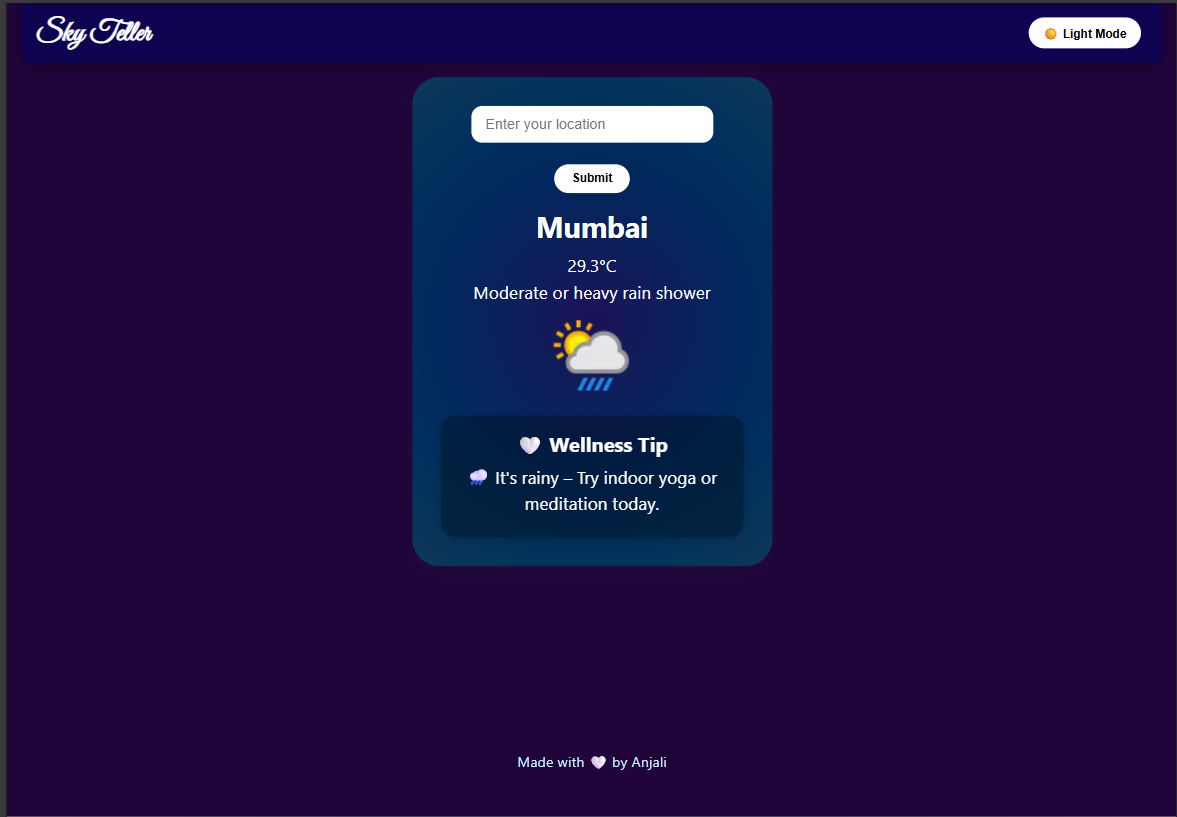
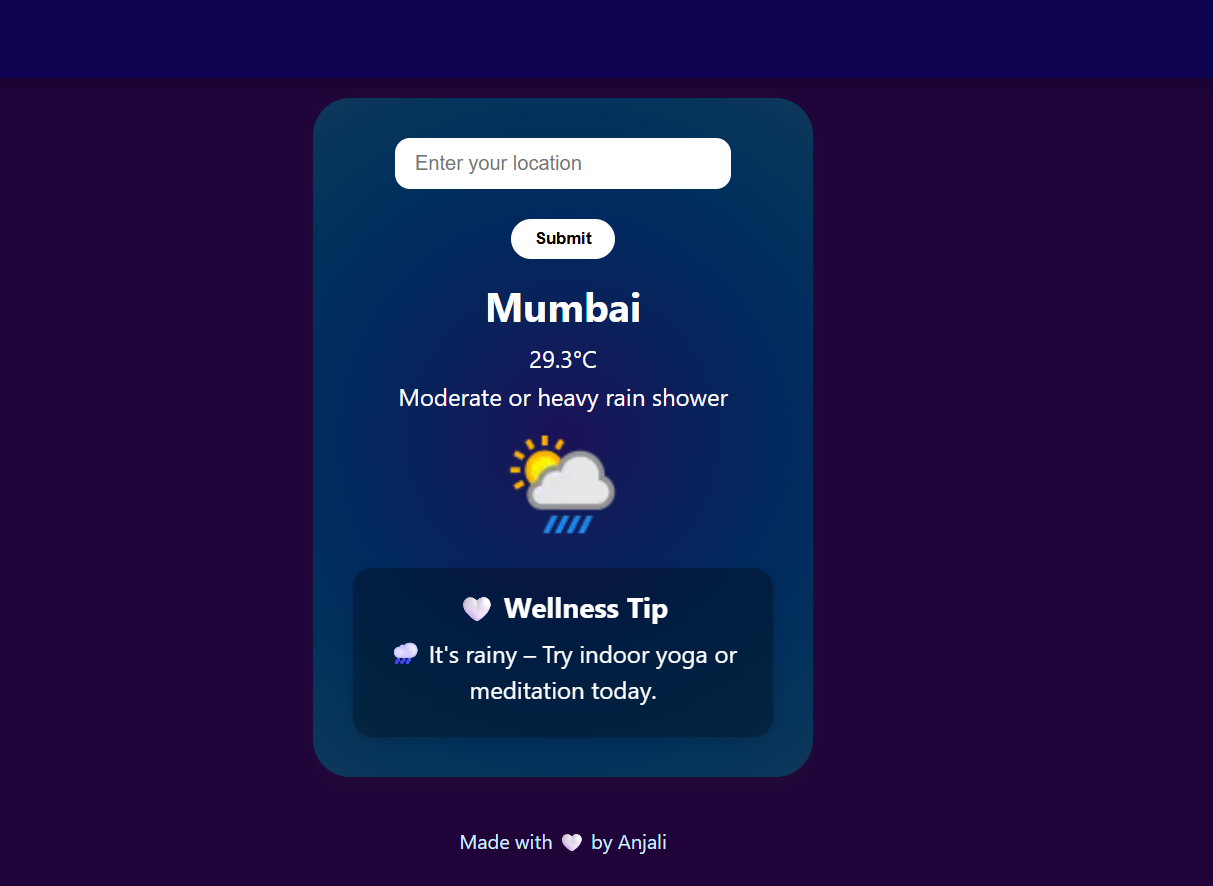
project [ update]

Changed region(s): [[0.0, 0.0, 1.0, 1.0], [0.367, 0.918, 0.5811, 0.9792]]

diff --git a/tailwind.config.js b/tailwind.config.js
@@ -1,9 +1,31 @@
+const { template } = require("lodash");
+
 // tailwind.config.js
 module.exports = {
   content: ['./src/**/*.{js,jsx,ts,tsx}', './public/index.html'], // ✅ replaces "purge"
   darkMode: 'class', // or 'media' or remove if unused
   theme: {
-    extend: {},
+    extend: {
+      colors: {
+        primary: '#000', // Twitter blue
+        'primary-dark': '#000', // Darker shade for dark mode
+        'primary-light': '#000', // Lighter shade for light mode
+      },
+      backgroundColor: {
+        'primary': '#D3D0E3',
+        'primary-dark': '#0d8ecf', // Darker shade for dark mode
+        'primary-light': '#a0d8f0', // Lighter shade for light mode
+      },
+      boxShadow: {
+        'custom-light': '0 4px 6px -1px rgba(0, 0, 0, 0.1), 0 2px 4px -1px rgba(0, 0, 0, 0.06)',
+        'custom-dark': '0 4px 6px -1px rgba(255, 255, 255, 0.1), 0 2px 4px -1px rgba(255, 255, 255, 0.06)',
+      },
+      textColor: {
+        'primary': '#000', // Twitter blue
+        'primary-dark': '#0d8ecf', // Darker shade for dark mode
+        'primary-light': '#a0d8f0', // Lighter shade for light mode
+      },
+    },
   },
   variants: {
     extend: {},
